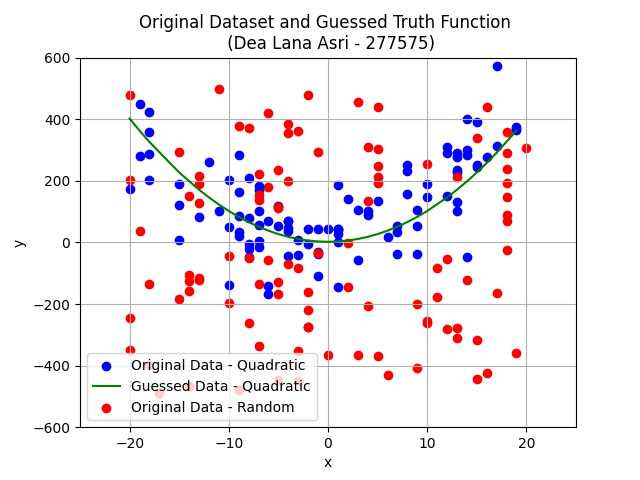
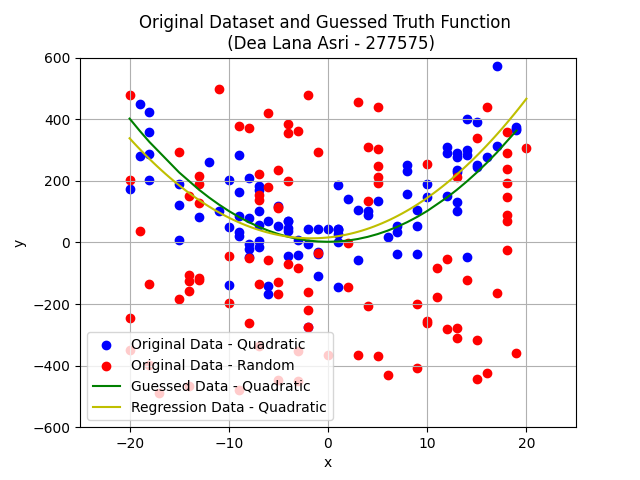
Add regression

diff --git a/code/exercise_1.py b/code/exercise_1.py
@@ -1,21 +1,32 @@
 import matplotlib.pyplot as plt
 import pandas as pd
-
+import numpy as np
+from sklearn.metrics import r2_score
 
 # Assignment Point 7
 
 # Read the dataset
+# The dataset is created by Svetlana Andrusenko and can be found in https://github.com/svetaandrusenko/MOD550_Andrusenko/tree/main/MOD550/data
 df = pd.read_csv('../data/dataset.csv')
 
 # Guessing truth function
 x1 = df['x'][:99]
 y1 = df['y'][:99]
 x1_guess = x1.sort_values()
-y1_guess = x1_guess**2 + 2
+y1_guess = x1_guess**2 + 2  # Quadratic function based on metadata
+
+# Regression
+model = np.polyfit(x1, y1, 2)
+x1_regression = np.linspace(-20, 20, 100)
+y1_regression = np.polyval(model, x1_regression)
+
+print(f"Model based on regression: {model}")
+print(f"R^2 Metric: {r2_score(y1, np.polyval(model, x1))}")
 
 plt.scatter(x1, y1, color='b', label='Original Data - Quadratic')
-plt.plot(x1_guess, y1_guess, color='g', label='Guessed Data - Quadratic')
 plt.scatter(df['x'][100:], df['y'][100:], color='r', label='Original Data - Random')
+plt.plot(x1_guess, y1_guess, color='g', label='Guessed Data - Quadratic')
+plt.plot(x1_regression, y1_regression, color='y', label='Regression Data - Quadratic')
 plt.xlim(-25, 25)
 plt.ylim(-600, 600)
 
